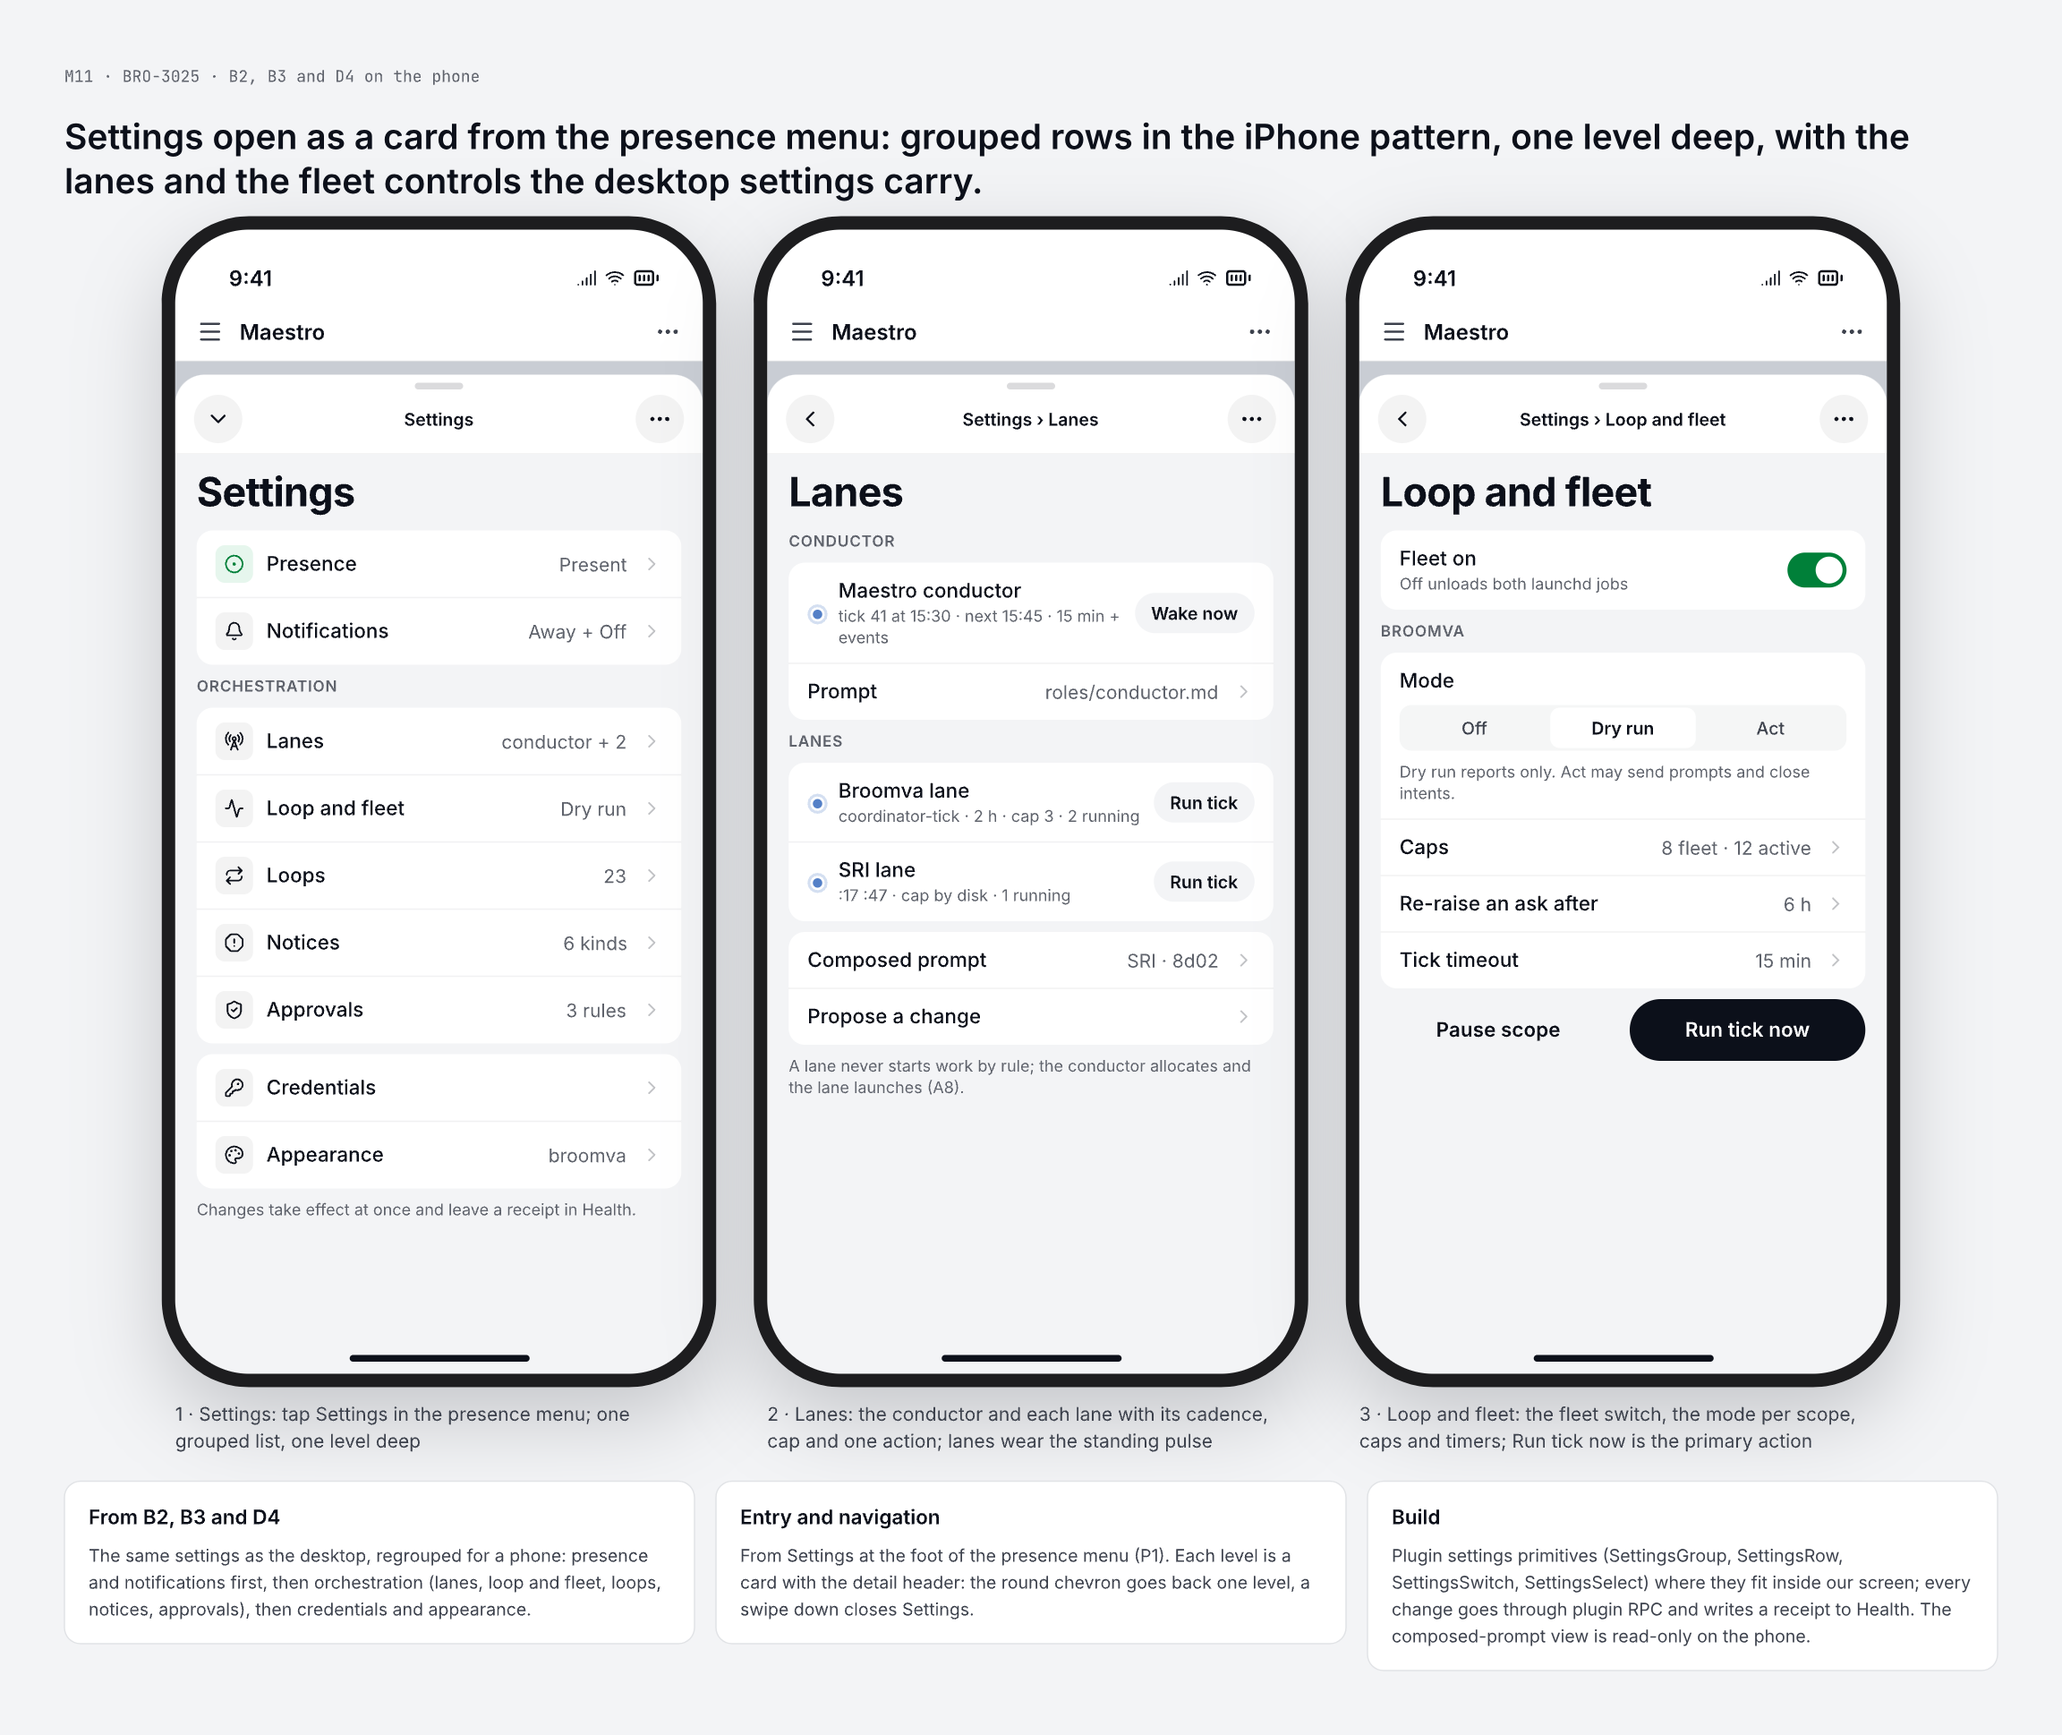
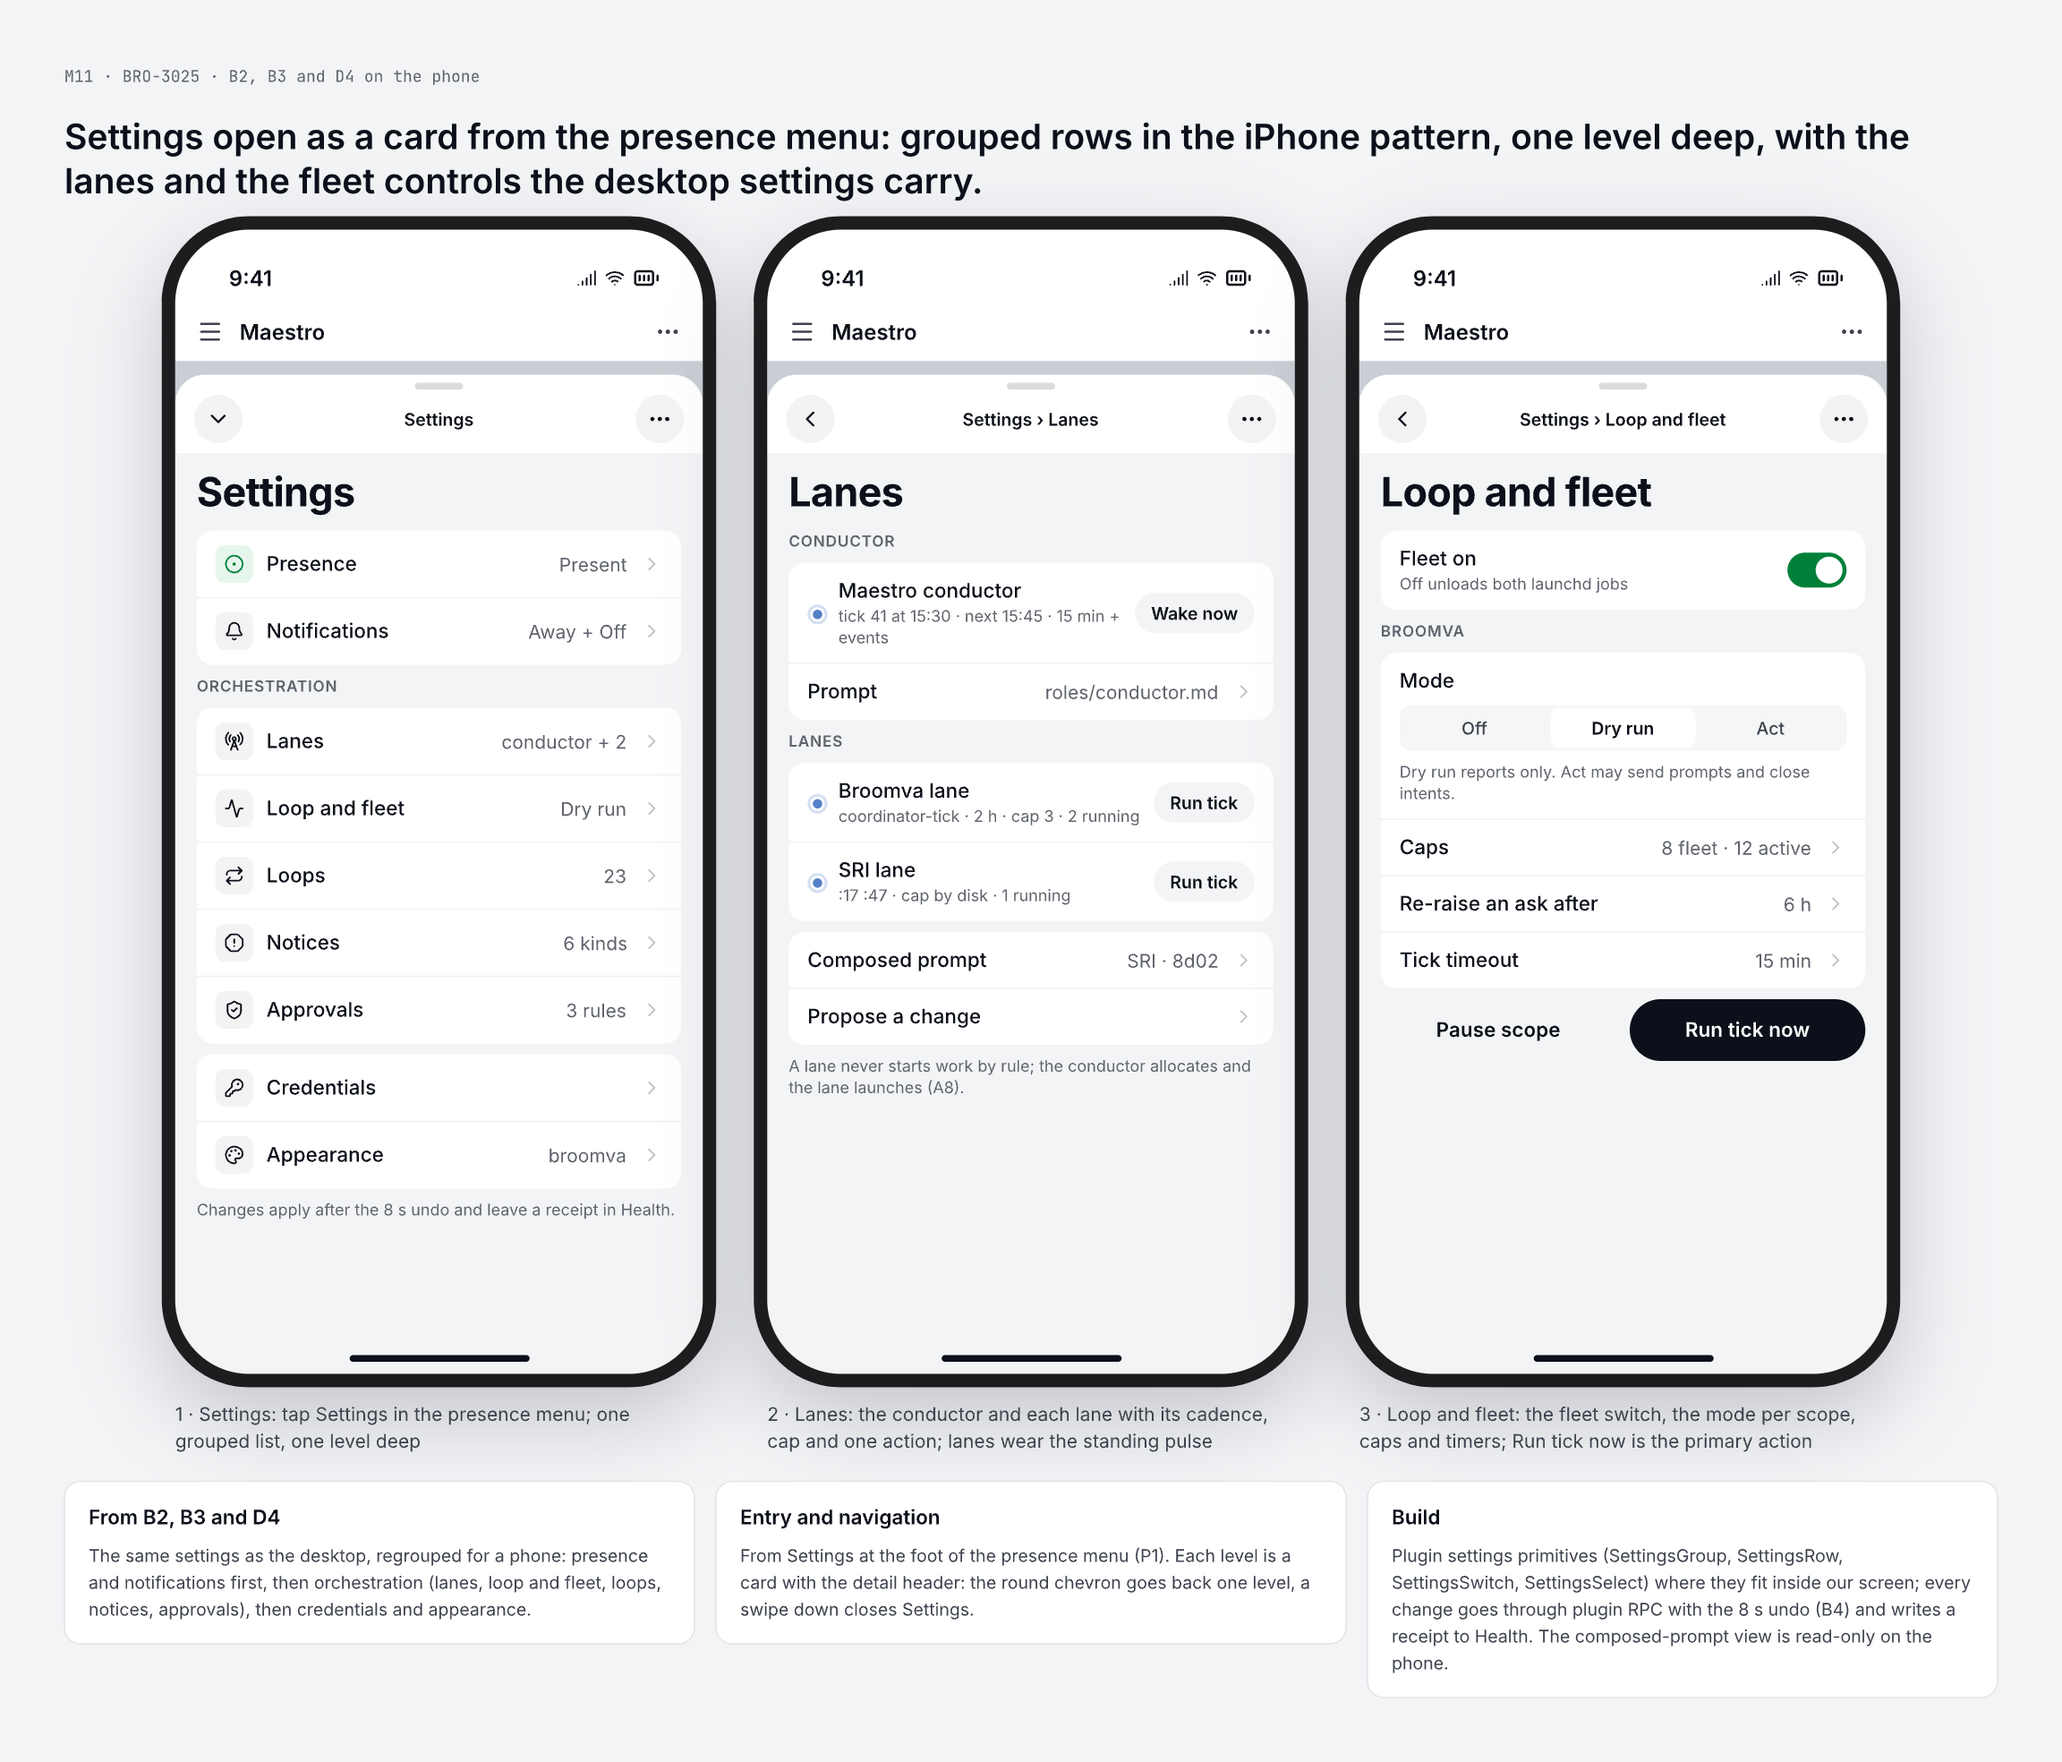
design: P20 round 2 fixes — undo on every owner-verb page, enforced; the checker verifies ids against the saved .pen (BRO-2980, BRO-3024)
Round 2 (B+C, same-vendor) scored 6/10 with two reproduced MAJORs:
- Settings (B2, B3, D4/M11) and presence (P1) wrote owner verbs without I-undo.
  They now carry it, F-undo covers them, M11 says changes apply after the 8 s
  undo, and a new rule fails any page that writes an owner verb without I-undo.
- The committed .pen lagged the PNGs (Pen's save was blocked by a locked screen).
  missingFrames() now checks every frame, phone_frame and component pen id against
  the saved .pen, so a stale or unsaved canvas fails CI. It fails today on P1 and
  M11 until the .pen is saved; that save is the next commit.
Also: duplicate contract rows are flagged; an M export in png is flagged when the
page has a phone_png. 63 checker tests, 1 failing by design until the save.

diff --git a/scripts/inventory-check.ts b/scripts/inventory-check.ts
@@ -221,6 +221,13 @@ export function check(inv: Inventory, root: string): string[] {
     if (typeof p.phone_png === "string" && p.phone_png && !PHONE_EXPORT.test(p.phone_png))
       out.push(`${id}: phone export ${p.phone_png} is not an M or P frame`);
     if (Boolean(p.phone_frame) !== Boolean(p.phone_png)) out.push(`${id}: phone_frame and phone_png come together`);
+    if (p.phone_png && typeof p.png === "string" && /^m\d/.test(p.png))
+      out.push(`${id}: png ${p.png} is a phone export; the desktop export goes in png and the phone one in phone_png`);
+    const ownerVerbs = (p.writes ?? []).filter((w) => has("interfaces", w) && inv.interfaces[w].gate === "owner");
+    if (p.frame !== "today" && ownerVerbs.some((w) => w !== "I-undo") && !(p.writes ?? []).includes("I-undo"))
+      out.push(
+        `${id}: writes owner verbs (${ownerVerbs.join(", ")}) without I-undo; every owner verb has the 8 s undo (B4)`,
+      );
     for (const c of p.components ?? [])
       if (has("components", c) && !live(inv.components[c])) out.push(`${id}: uses retired component ${c}`);
   }
@@ -316,6 +323,7 @@ export function contractDrift(inv: Inventory, markdown: string): string[] {
     const cells = line.split("|").map((c) => c.trim());
     if (!cells[1]?.startsWith("P-")) continue;
     const ids = (c: string | undefined) => (c ?? "").match(/I-[a-z0-9-]+/g) ?? [];
+    if (rows.has(cells[1])) out.push(`${cells[1]}: two rows in view-models.md`);
     rows.set(cells[1], { reads: ids(cells[3]), writes: ids(cells[4]) });
   }
   const same = (a: string[], b: string[]) => a.length === b.length && [...a].sort().join() === [...b].sort().join();
@@ -337,6 +345,35 @@ export function contractDrift(inv: Inventory, markdown: string): string[] {
   }
   for (const id of rows.keys())
     if (!Object.hasOwn(inv.pages, id)) out.push(`${id}: in view-models.md but not in the inventory`);
+  return out;
+}
+
+// Every frame and component id the inventory names must exist in the saved .pen (plain JSON). A stale
+// .pen, or a frame deleted from the canvas, fails here instead of reaching a builder.
+export function penIds(root: string): Set<string> {
+  const ids = new Set<string>();
+  const walk = (n: unknown): void => {
+    if (Array.isArray(n)) for (const v of n) walk(v);
+    else if (n && typeof n === "object") {
+      const o = n as Record<string, unknown>;
+      if (typeof o.id === "string") ids.add(o.id);
+      for (const v of Object.values(o)) walk(v);
+    }
+  };
+  walk(JSON.parse(readFileSync(join(root, "docs/design/maestro-next.pen"), "utf8")));
+  return ids;
+}
+
+export function missingFrames(inv: Inventory, ids: Set<string>): string[] {
+  const out: string[] = [];
+  for (const [id, p] of Object.entries(inv.pages))
+    for (const k of ["frame", "phone_frame"] as const) {
+      const f = p[k];
+      if (typeof f === "string" && f !== "today" && !ids.has(f))
+        out.push(`${id}: ${k} ${f} is not in maestro-next.pen`);
+    }
+  for (const [id, c] of Object.entries(inv.components))
+    if (typeof c.pen === "string" && !ids.has(c.pen)) out.push(`${id}: pen ${c.pen} is not in maestro-next.pen`);
   return out;
 }
 
@@ -363,6 +400,7 @@ if (import.meta.main) {
   const findings = [
     ...check(inv, root),
     ...contractDrift(inv, readFileSync(join(root, "docs/design/next/view-models.md"), "utf8")),
+    ...missingFrames(inv, penIds(root)),
   ];
   for (const f of findings) console.log(`✗ ${f}`);
   console.log(findings.length ? `${findings.length} findings` : "inventory: clean");

diff --git a/scripts/inventory-check.test.ts b/scripts/inventory-check.test.ts
@@ -1,7 +1,7 @@
 import { describe, expect, test } from "bun:test";
 import { readFileSync } from "node:fs";
 import { join } from "node:path";
-import { check, contractDrift, type Inventory, load } from "./inventory-check";
+import { check, contractDrift, type Inventory, load, missingFrames, penIds } from "./inventory-check";
 
 const root = join(import.meta.dir, "..");
 
@@ -23,7 +23,7 @@ function clean(): Inventory {
         phone_png: "m1-feed-home-mobile.png",
         components: ["C-card"],
         reads: ["I-needs"],
-        writes: ["I-answer"],
+        writes: ["I-answer", "I-undo"],
       },
     },
     components: { "C-card": { name: "Card", status: "keep" } },
@@ -37,6 +37,7 @@ function clean(): Inventory {
         stores: ["S-asks"],
       },
       "I-needs": { name: "needs.list", status: "keep", handler: "plugin", callers: ["ui"] },
+      "I-undo": { name: "undo", status: "keep", handler: "plugin", callers: ["ui"], gate: "owner" },
       "I-sweep": { name: "sweep", status: "keep", handler: "plugin", callers: ["plugin"] },
     },
     stores: { "S-asks": { name: "asks", status: "keep", owner: "plugin", modules: ["server/control-asks.ts"] } },
@@ -74,6 +75,22 @@ describe("inventory-check", () => {
   const contract = () => readFileSync(join(root, "docs/design/next/view-models.md"), "utf8");
   test("view-models.md and the inventory agree on every live page", () => {
     expect(contractDrift(load(root), contract())).toEqual([]);
+  });
+  test("every frame and component id the inventory names exists in the saved .pen", () => {
+    expect(missingFrames(load(root), penIds(root))).toEqual([]);
+  });
+  test("a frame missing from the .pen is caught", () => {
+    const inv = load(root);
+    inv.pages["P-feed"].frame = "NOPE9";
+    inv.components["C-inspector"].pen = "NOPE8";
+    const out = missingFrames(inv, penIds(root)).join("\n");
+    expect(out).toMatch(/P-feed: frame NOPE9 is not in maestro-next.pen/);
+    expect(out).toMatch(/C-inspector: pen NOPE8 is not in maestro-next.pen/);
+  });
+  test("a duplicated contract row is caught", () => {
+    const md = contract();
+    const row = md.split("\n").find((l) => l.startsWith("| P-feed "));
+    expect(contractDrift(load(root), `${md}\n${row}`).join("\n")).toMatch(/P-feed: two rows in view-models.md/);
   });
   test("contract drift is caught: an extra write, a missing row, an unknown page", () => {
     const inv = load(root);

diff --git a/docs/design/next/view-models.md b/docs/design/next/view-models.md
@@ -85,7 +85,8 @@ be swiped (B1 and M1).
 
 Ids are the inventory's. `scripts/inventory-check.test.ts` parses this table and fails when a row's
 reads or writes differ from `inventory.yaml`, or when a live page has no row. Every owner verb
-here has the 8 s undo, so `I-undo` appears wherever a verb does.
+here has the 8 s undo (B4), settings and presence included, so `I-undo` appears on every page that
+writes an owner verb. The checker enforces it.
 
 | Page | Screens | Reads | Writes | New fields |
 |---|---|---|---|---|
@@ -99,10 +100,10 @@ here has the 8 s undo, so `I-undo` appears wherever a verb does.
 | P-initiatives | J8, M8 | I-initiatives-list, I-needs-list | I-ask-answer, I-initiatives-file, I-undo | `reviewDue`, `late`, `driver.live`; the review is an `ask` row raised by `ask.raise` on its due date (B2) |
 | P-new-work | J9, M9 | I-config-get, I-folder-inspect, I-lanes-get | I-work-create | "who starts it" from `lanes.get` (A8); `work.create` only queues |
 | P-phone | M10 | I-needs-list | I-approval-decide, I-ask-answer, I-undo | the push body (≤220 characters); `openScreen` with `{ hold: key }`, checked in BRO-3033 |
-| P-presence | P1 | I-presence-get | I-presence-set | `presence.get` → `{ state: present \| away \| off, from: signals \| manual, until? }` |
-| P-settings-sweep-fleet | B2, M11 | I-sweep-get, I-fleet-get, I-config-get | I-config-set, I-sweep-wake, I-fleet-mode-set, I-fleet-tick-run | none |
-| P-settings-loops-notices-approvals | B3, M11 | I-loops-get, I-notices-registry-get, I-policy-get | I-loop-control, I-notices-registry-propose | none |
-| P-settings-lanes | D4, M11 | I-lanes-get | I-lanes-propose, I-conductor-wake, I-lane-tick-run | none |
+| P-presence | P1 | I-presence-get | I-presence-set, I-undo | `presence.get` → `{ state: present \| away \| off, from: signals \| manual, until? }` |
+| P-settings-sweep-fleet | B2, M11 | I-sweep-get, I-fleet-get, I-config-get | I-config-set, I-sweep-wake, I-fleet-mode-set, I-fleet-tick-run, I-undo | none |
+| P-settings-loops-notices-approvals | B3, M11 | I-loops-get, I-notices-registry-get, I-policy-get | I-loop-control, I-notices-registry-propose, I-undo | none |
+| P-settings-lanes | D4, M11 | I-lanes-get | I-lanes-propose, I-conductor-wake, I-lane-tick-run, I-undo | none |
 
 `I-session-prompt` prompts an existing session and never creates one. A8 forbids creating work by
 rule; Continue is the owner's verb, and auto-continue is A3.
